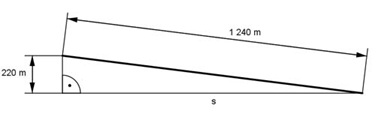
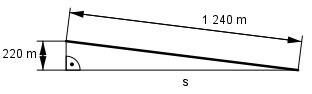
Add files via upload

Changed region(s): [[0.0, 0.0851, 0.9808, 0.8085], [0.5481, 0.8298, 0.6058, 0.9149]]

diff --git a/Pytha_Aufgabe21.html b/Pytha_Aufgabe21.html
@@ -5,6 +5,10 @@
   <meta http-equiv="X-UA-Compatible" content="IE=edge">
   <meta name ="viewport" content="width=device-width, initial-scale=1.0">
   <title>Satz von Pythagoras, Höhensatz, Kathetehsatz</title>
+
+<script id="MathJax-script" async
+  src="https://cdn.jsdelivr.net/npm/mathjax@3/es5/tex-mml-chtml.js">
+</script>    
   
 </head>
 <body style="background-color:white; margin-top: 1em; ">
@@ -19,7 +23,7 @@
 <pre><b><p class ="Aufgabe">Pythagoras Aufgabe 21
 
 Ein gleichseitiges Dreieck hat einen Umfang von 
-60 cm. Wie groß ist seine Fläche A in cm²?   
+60 cm. Wie groß ist seine Fläche A in cm<sup>2</sup>?   
 
 <img src="Aufgabe12.jpg" >
 
@@ -34,16 +38,16 @@ s = --- = ------- = 20 cm
  
 Satz von Pythagoras im Dreieck ADC: 
  
-AC² = AD² + h² | -AD² 
+AC<sup>2</sup> = AD<sup>2</sup> + h<sup>2</sup> | -AD<sup>2</sup> 
  
-h² = AC² - AD² 
+h<sup>2</sup> = AC<sup>2</sup> - AD<sup>2</sup> 
  
-h² = 20² cm² - 10² cm² = 300 cm² |√ 
+h<sup>2</sup> = 20<sup>2</sup> cm<sup>2</sup> - 10<sup>2</sup> cm<sup>2</sup> = 300 cm<sup>2</sup> |√ 
  
-h = <math ><msqrt><mi>300 cm²</mi></msqrt></math> = 17,3 cm
+h = <math ><msqrt><mrow><mn>300</mn><msup><mi mathvariant="normal">cm</mi><mn>2</mn></msup></mrow></msqrt></math> = 17,3 cm
  
      AB * h     20 cm * 17,3 cm 
-<span style="color:red;">A</span> = -------- = ----------------- = <span style="color:red;">173 cm²</span> 
+<span style="color:red;">A</span> = -------- = ----------------- = <span style="color:red;">173 cm<sup>2</sup></span> 
        2               2      
  
 </p></b></pre>

diff --git a/Pytha_Aufgabe26.html b/Pytha_Aufgabe26.html
@@ -5,6 +5,10 @@
   <meta http-equiv="X-UA-Compatible" content="IE=edge">
   <meta name ="viewport" content="width=device-width, initial-scale=1.0">
   <title>Satz von Pythagoras, Höhensatz, Kathetehsatz</title>
+
+<script id="MathJax-script" async
+  src="https://cdn.jsdelivr.net/npm/mathjax@3/es5/tex-mml-chtml.js">
+</script>    
   
 </head>
 <body style="background-color:white; margin-top: 1em; ">
@@ -18,7 +22,7 @@
     
 <pre><b><p class ="Aufgabe">Pythagoras Aufgabe 26
 
-Berechnen Sie die Fläche A des Dreiecks in cm² 
+Berechnen Sie die Fläche A des Dreiecks in cm<sup>2</sup> 
 und den Umfang U in cm. 
 
 <img src="Aufgabe16.jpg" >
@@ -28,14 +32,14 @@ AB = |-4| cm + 2 cm  = 6 cm
 BC = 5 cm - 2 cm = 3 cm 
  
      AC * BC     3 cm * 6 cm  
-<span style="color:red;">A</span> = --------- = ------------- = <span style="color:red;">9 cm²</span> 
+<span style="color:red;">A</span> = --------- = ------------- = <span style="color:red;">9 cm<sup>2</sup></span> 
         2             2   
  
-AC² = AB² + BC² 
+AC<sup>2</sup> = AB<sup>2</sup> + BC<sup>2</sup> 
  
-AC² = 6² cm² + 3² cm² = 45 cm² |√ 
+AC<sup>2</sup> = 6<sup>2</sup> cm<sup>2</sup> + 3<sup>2</sup> cm<sup>2</sup> = 45 cm<sup>2</sup> |√ 
  
-AC = <math ><msqrt><mi>45 cm²</mi></msqrt></math> = 6,7 cm 
+AC = <math ><msqrt><mrow><mn>45</mn><msup><mi mathvariant="normal">cm</mi><mn>2</mn></msup></mrow></msqrt></math> = 6,7 cm 
  
 U = AB + BC * AC  
  

diff --git a/Pytha_Aufgabe23.html b/Pytha_Aufgabe23.html
@@ -27,14 +27,14 @@ Betrachtet wird das rechtwinklige Dreieck ABD
 
 Höhensatz: 
 
-h² = p * q = <math ><mover ><mrow><mi>EB</mi></mrow><mo>&#x2212;</mo></mover></math> * <math ><mover ><mrow><mi>AE</mi></mrow><mo>&#x2212;</mo></mover></math> = 5 m * 8 m = 40 m² 
+h<sup>2</sup> = p * q = <span style="text-decoration: overline;">EB</span> * <span style="text-decoration: overline;">AE</span> = 5 m * 8 m = 40 m<sup>2</sup> 
 
-<span style="color:red;">h</span> = <math ><msqrt><mi>40 m²</mi></msqrt></math> = <span style="color:red;">6,3 m</span> 
+<span style="color:red;">h</span> = <math ><msqrt><mrow><mn>40</mn><msup><mi mathvariant="normal">m</mi><mn>2</mn></msup></mrow></msqrt></math> = <span style="color:red;">6,3 m</span> 
 
 Betrachtet wird das rechtwinklige Dreieck EBD 
 
-a² = 5² m² + 6,3 m² = 64,9 m²  
+a<sup>2</sup> = 5<sup>2</sup> m<sup>2</sup> + 6,3 m<sup>2</sup> = 64,9 m<sup>2</sup>  
 
-<span style="color:red;">a</span> = <math ><msqrt><mi>640,9 m²</mi></msqrt></math> = <span style="color:red;">8,1 m</span>
+<span style="color:red;">a</span> = <math ><msqrt><mrow><mn>64,9</mn><msup><mi mathvariant="normal">m</mi><mn>2</mn></msup></mrow></msqrt></math> = <span style="color:red;">8,1 m</span>
 
 </p></b></pre>

diff --git a/Pytha_Aufgabe22.html b/Pytha_Aufgabe22.html
@@ -5,6 +5,10 @@
   <meta http-equiv="X-UA-Compatible" content="IE=edge">
   <meta name ="viewport" content="width=device-width, initial-scale=1.0">
   <title>Satz von Pythagoras, Höhensatz, Kathetehsatz</title>
+
+<script id="MathJax-script" async
+  src="https://cdn.jsdelivr.net/npm/mathjax@3/es5/tex-mml-chtml.js">
+</script>    
   
 </head>
 <body style="background-color:white; margin-top: 1em; ">
@@ -26,11 +30,11 @@ Prozent.
 
 <img src="Aufgabe12a.jpg" >
 
-1 240² m² = 220² m² + s² | - 220² m² 
+1 240<sup>2</sup> m<sup>2</sup> = 220<sup>2</sup> m<sup>2</sup> + s<sup>2</sup> | - 220<sup>2</sup> m<sup>2</sup> 
 
-s² = 1 240² m² - 220² mm² = 1 489 200 m² |√ 
+s<sup>2</sup> = 1 240<sup>2</sup> m<sup>2</sup> - 220<sup>2</sup> mm<sup>2</sup> = 1 489 200 m<sup>2</sup> |√ 
 
-<span style="color:red;">s</span> = <math ><msqrt><mi>1 489 200 m²</mi></msqrt></math> = <span style="color:red;">1 220,3 m</span>
+<span style="color:red;">s</span> = <math ><msqrt><mrow><mn>1 489 200</mn><msup><mi mathvariant="normal">m</mi><mn>2</mn></msup></mrow></msqrt></math> = <span style="color:red;">1 220,3 m</span>
   
       220,3 m 
 g = ----------- = 0,18 --> <span style="color:red;">g = 18 % </span>

diff --git a/Pytha_Aufgabe25.html b/Pytha_Aufgabe25.html
@@ -5,6 +5,10 @@
   <meta http-equiv="X-UA-Compatible" content="IE=edge">
   <meta name ="viewport" content="width=device-width, initial-scale=1.0">
   <title>Satz von Pythagoras, Höhensatz, Kathetehsatz</title>
+
+<script id="MathJax-script" async
+  src="https://cdn.jsdelivr.net/npm/mathjax@3/es5/tex-mml-chtml.js">
+</script>    
   
 </head>
 <body style="background-color:white; margin-top: 1em; ">
@@ -28,10 +32,10 @@ CB = 4cm - 1 cm = 3 cm
 
 Satz von Pythagoras im Dreieck ACB: 
 
-AB² = AC² + CB² 
+AB<sup>2</sup> = AC<sup>2</sup> + CB<sup>2</sup> 
 
-AB² = 6² cm² + 5² cm² = 45 cm² |√ 
+AB<sup>2</sup> = 6<sup>2</sup> cm<sup>2</sup> + 5<sup>2</sup> cm<sup>2</sup> = 45 cm<sup>2</sup> |√ 
 
-<span style="color:red;">AB</span> = <math ><msqrt><mi>45 cm²</mi></msqrt></math> = <span style="color:red;">6,7 cm</span>
+<span style="color:red;">AB</span> = <math ><msqrt><mrow><mn>45</mn><msup><mi mathvariant="normal">cm</mi><mn>2</mn></msup></mrow></msqrt></math> = <span style="color:red;">6,7 cm</span>
 
 </p></b></pre>

diff --git a/Pytha_Aufgabe29.html b/Pytha_Aufgabe29.html
@@ -21,13 +21,13 @@
 Die Dreiecke ABC und DAC sollen flächengleich 
 sein. Wie groß müssen a und b in cm sein, wenn 
 c = 5 cm ist und jedes Dreieck eine Fläche 
-A = 30 cm² hat?  
+A = 30 cm<sup>2</sup> hat?  
 
 <img src="Aufgabe19.jpg" >
 
 Beide Dreiecke haben zusammen eine Fläche von 
 
-2 * 30 cm² = 60 cm². 
+2 * 30 cm<sup>2</sup> = 60 cm<sup>2</sup>. 
  
 Für die Fläche des Dreiecks DAC gilt: 
  
@@ -77,17 +77,17 @@ h = ----- = ----- = 12 cm
 
 Satz von Pythagoras im Dreieck DAC: 
 
-b² = x² + h² 
+b<sup>2</sup> = x<sup>2</sup> + h<sup>2</sup> 
 
-b² = 5² + 12² = 169 |√ 
+b<sup>2</sup> = 5<sup>2</sup> + 12<sup>2</sup> = 169 |√ 
 
 <span style="color:red;">b = 13 cm </span>
 
 Satz von Pythagoras im Dreieck DBC: 
 
-a² = DB² + h² 
+a<sup>2</sup> = DB<sup>2</sup> + h<sup>2</sup> 
 
-a² = 10² + 12² = 244 |√ 
+a<sup>2</sup> = 10<sup>2</sup> + 12<sup>2</sup> = 244 |√ 
 
 <span style="color:red;">a = 15,6 cm</span>
 

diff --git a/Pytha_Aufgabe28.html b/Pytha_Aufgabe28.html
@@ -18,16 +18,16 @@
     
 <pre><b><p class ="Aufgabe">Pythagoras Aufgabe 28
 
-Ein senkrecht an einer Wand stehender Stab rutscht 
-30 cm herunter.  Dabei entfernt sich sein Fußpunkt 
-einen halben Meter von der Wand. 
+Ein senkrecht an einer Wand stehender Stab 
+rutscht 30 cm herunter.  Dabei entfernt sich sein 
+Fußpunkt einen halben Meter von der Wand. 
 Wie lang ist der Stab in m?  
 
 <img src="Aufgabe18.jpg" >
 
-  x² = (x - 0,3)² + 0,5² 
+  x<sup>2</sup> = (x - 0,3)<sup>2</sup> + 0,5<sup>2</sup> 
 
-  x² = x² - 0,6x + 0,09 + 0,25 |-x² 
+  x<sup>2</sup> = x<sup>2</sup> - 0,6x + 0,09 + 0,25 |-x<sup>2</sup> 
 
    0 = - 0,6x + 0,34 |+0,6x 
 

diff --git a/Pytha_Aufgabe30.html b/Pytha_Aufgabe30.html
@@ -27,19 +27,19 @@ Berechnen Sie die Strecke AB in m.
 
 Satz von Pythagoras im Dreieck ADC: 
 
-AC² = AD² + h² |-AD² 
+AC<sup>2</sup> = AD<sup>2</sup> + h<sup>2</sup> |-AD<sup>2</sup> 
 
-h² = AC² - AD² 
+h<sup>2</sup> = AC<sup>2</sup> - AD<sup>2</sup> 
 
-h² = 10² cm² - 6² cm² = 64 cm² |√ 
+h<sup>2</sup> = 10<sup>2</sup> cm<sup>2</sup> - 6<sup>2</sup> cm<sup>2</sup> = 64 cm<sup>2</sup> |√ 
 
 h = 8 cm 
 
 Höhensatz im Dreieck ABC: 
 
-h² = 6 cm * p 
+h<sup>2</sup> = 6 cm * p 
 
-64 cm² = 6 cm * p |:p 
+64 cm<sup>2</sup> = 6 cm * p |:p 
 
 p = 10,7 cm 
 

diff --git a/Pytha_Aufgabe27.html b/Pytha_Aufgabe27.html
@@ -29,20 +29,20 @@ c = p + q
 
 Höhensatz:
 
-h² = q * p 
+h<sup>2</sup> = q * p 
 
 h = n * q 
 
-h² = (n * q)² = n² * q² 
+h<sup>2</sup> = (n * q)<sup>2</sup> = n<sup>2</sup> * q<sup>2</sup> 
 
-n² * q² = q * p | :q 
+n<sup>2</sup> * q<sup>2</sup> = q * p | :q 
 
-n² * q = p 
+n<sup>2</sup> * q = p 
 
 In c = p + q eingesetzt:
 
-c = n² * q + q 
+c = n<sup>2</sup> * q + q 
 
-<span style="color:red;">c = q(1 + n²)</span>
+<span style="color:red;">c = q(1 + n<sup>2</sup>)</span>
  
 </p></b></pre>

diff --git a/Pytha_Aufgabe24.html b/Pytha_Aufgabe24.html
@@ -29,15 +29,15 @@ Die neue Hypotenuse ist AB.
 
 Satz von Pythagoras im Dreieck ADC: 
 
-AC² = AD² + h² | -AD² 
+AC<sup>2</sup> = AD<sup>2</sup> + h<sup>2</sup> | -AD<sup>2</sup> 
 
-h² = AC² - AD² 
+h<sup>2</sup> = AC<sup>2</sup> - AD<sup>2</sup> 
 
-h² = 6² cm² - 4² cm² = 20 cm²  
+h<sup>2</sup> = 6<sup>2</sup> cm<sup>2</sup> - 4<sup>2</sup> cm<sup>2</sup> = 20 cm<sup>2</sup>  
 
 Höhensatz: 
 
-h² = AD * DB 
+h<sup>2</sup> = AD * DB 
 
 20 = 4 * DB | :4 
 
